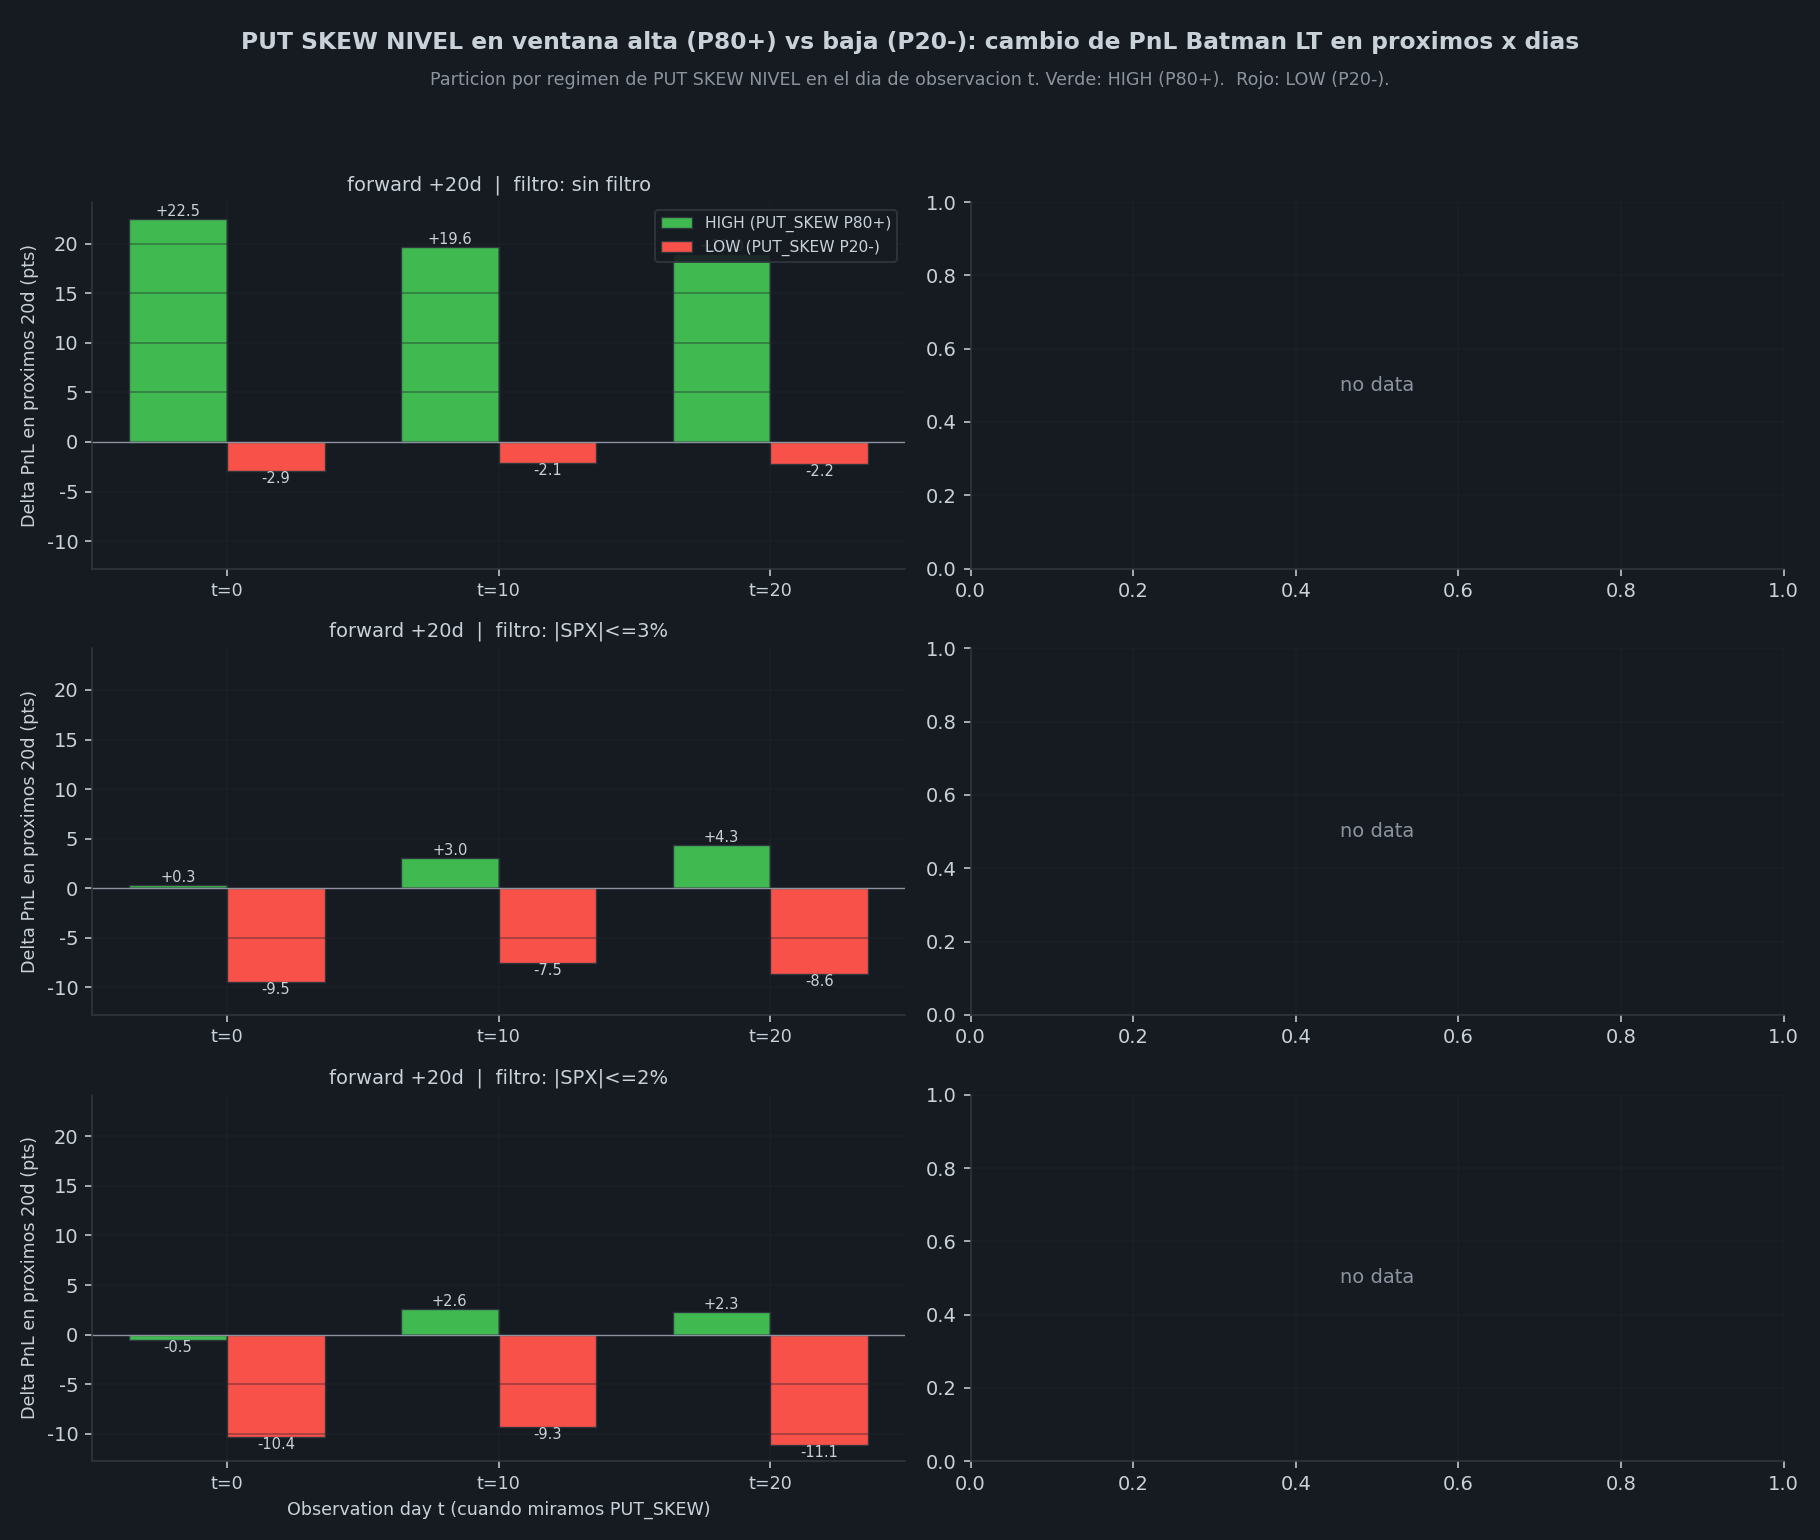
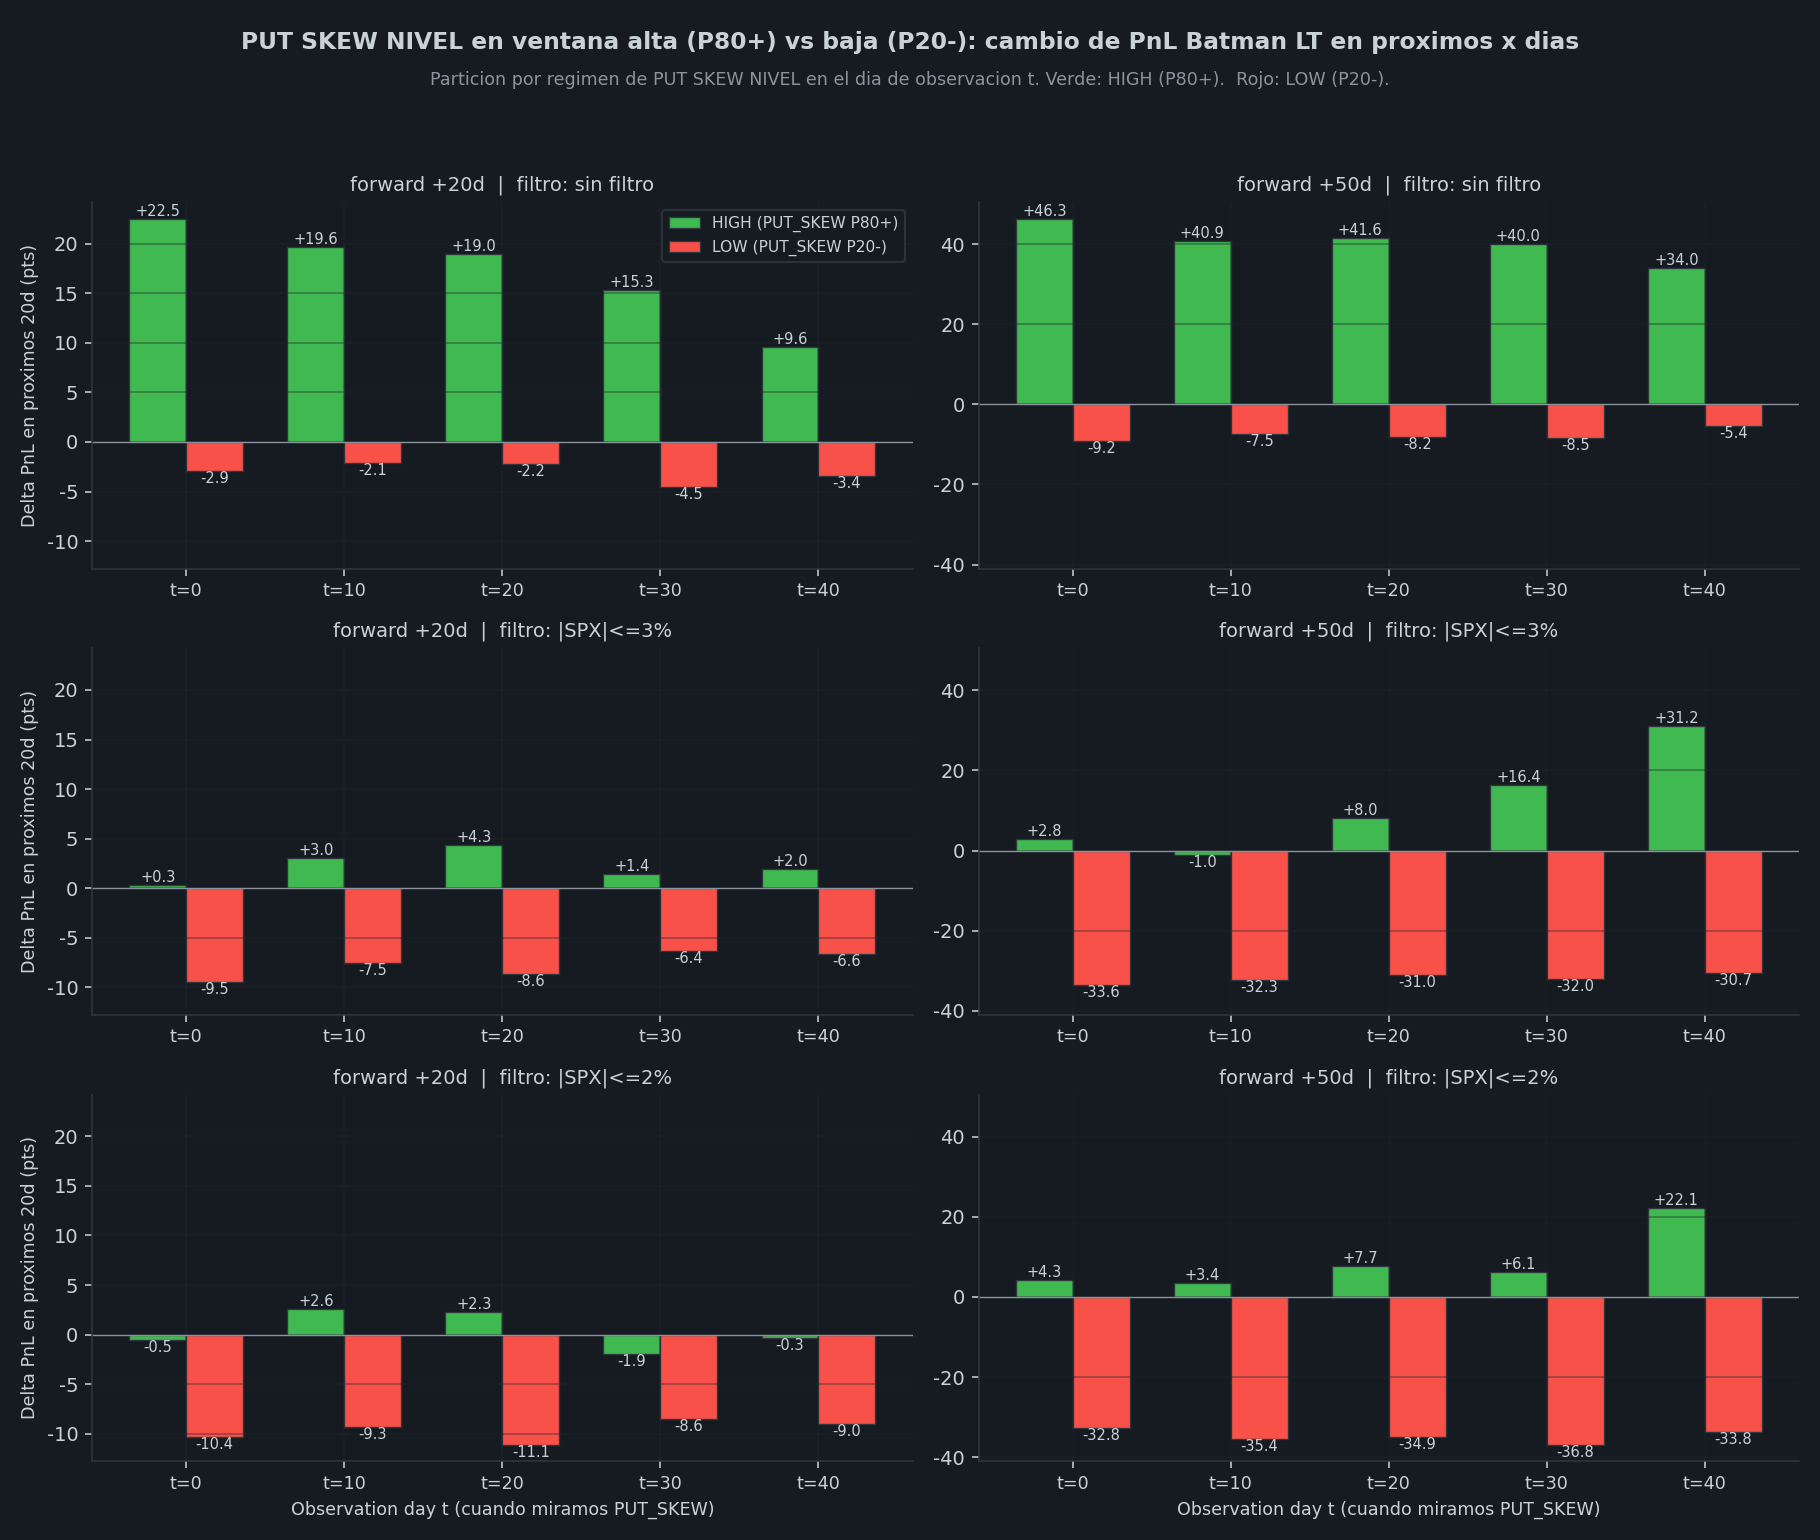
evidence regen Batman LT exclusive 2026-05-03 13:23

diff --git a/generate_evidence.py b/generate_evidence.py
@@ -210,8 +210,15 @@ def load_dataset() -> Dataset:
     if not SKEW_ENRICHED_CSV.exists():
         raise FileNotFoundError(f"SKEW_PUT_ENRICHED not found: {SKEW_ENRICHED_CSV}")
 
-    pnl_cols = [f"PnL_d{d:03d}_mediana" for d in WINDOWS]
-    spx_cols = [f"SPX_chg_pct_d{d:03d}" for d in WINDOWS]
+    # Load ALL columns needed: horizon analysis (d001-d049), regime d050,
+    # and window-forward up to t_max+x_max = 40+50 = d090
+    horizon_pnl_cols = [f"PnL_d{d:03d}_mediana" for d in WINDOWS]
+    horizon_spx_cols = [f"SPX_chg_pct_d{d:03d}" for d in WINDOWS]
+    extra_days = list(range(50, max(WF_OBS_DAYS) + max(WF_FORWARDS) + 1))  # d050 .. d090
+    extra_pnl_cols = [f"PnL_d{d:03d}_mediana" for d in extra_days]
+    extra_spx_cols = [f"SPX_chg_pct_d{d:03d}" for d in extra_days]
+    pnl_cols = horizon_pnl_cols + extra_pnl_cols
+    spx_cols = horizon_spx_cols + extra_spx_cols
     needed = {DATE_COL} | set(pnl_cols) | set(spx_cols)
     print(f"[INFO] reading Batman LT {BATMAN_LT_CSV.name} (subset cols)")
     bm = pd.read_csv(BATMAN_LT_CSV, usecols=lambda c: c in needed, low_memory=False)
